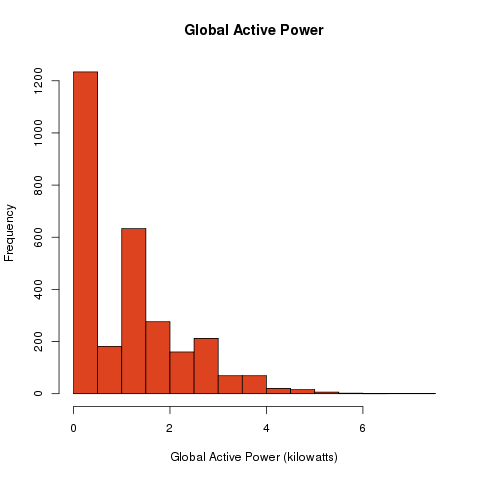
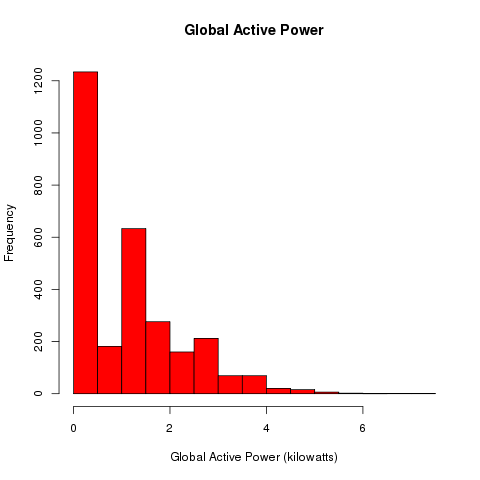
adds grading shortcut page and corrects the color of plot 1
Plot 1 was sampled on a color-managed workstation, making its colors
seem different from the VM where the samples were being viewed

Changed region(s): [[0.1562, 0.125, 0.6562, 0.8438]]

diff --git a/grading.md b/grading.md
@@ -1,0 +1,24 @@
+## Grading comparison for peer reviewers
+
+For the four plots, it helps with checking to see the original sample figures alongside the completed ones.
+Keep in mind that the figures used in the README.md file are at 504x504px not the required 480x480px.
+
+#### Plot 1 - example
+|![plot of chunk unnamed-chunk-2](figure/unnamed-chunk-2.png)
+#### Plot 1 - submitted
+![plot1 submission](plot1.png)
+
+#### Plot 2 - example
+![plot of chunk unnamed-chunk-3](figure/unnamed-chunk-3.png)
+#### Plot 2 - submitted
+![plot2 submission](plot2.png)
+
+#### Plot 3 - example
+![plot of chunk unnamed-chunk-4](figure/unnamed-chunk-4.png)
+#### Plot 3 - submitted
+![plot3 submission](plot3.png)
+
+#### Plot 4 - example
+![plot of chunk unnamed-chunk-5](figure/unnamed-chunk-5.png)
+#### Plot 4 - submitted
+![plot4 submission](plot4.png)
